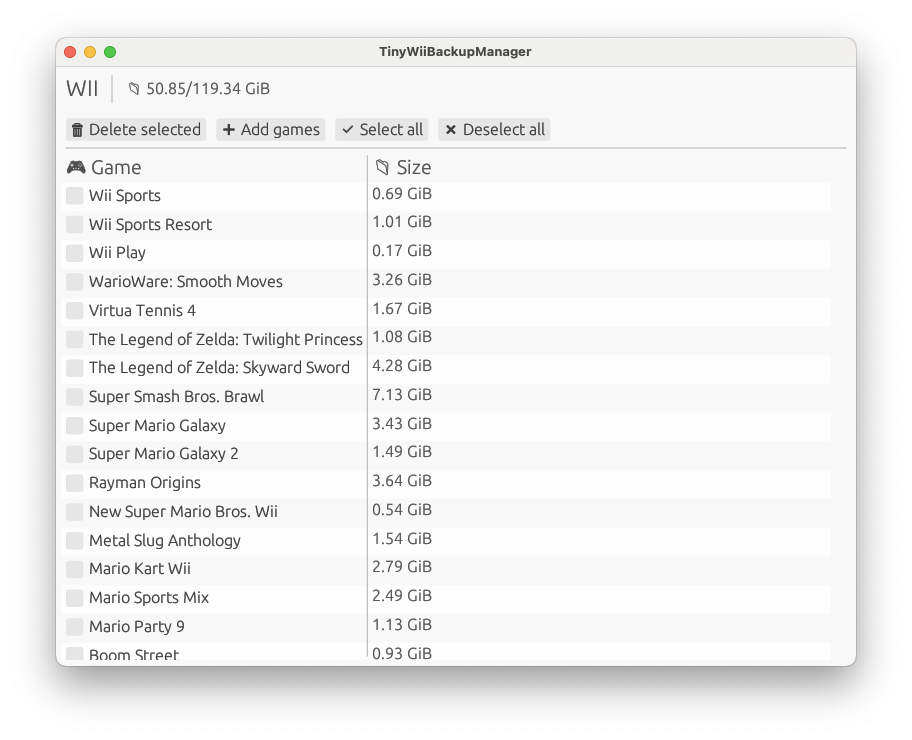
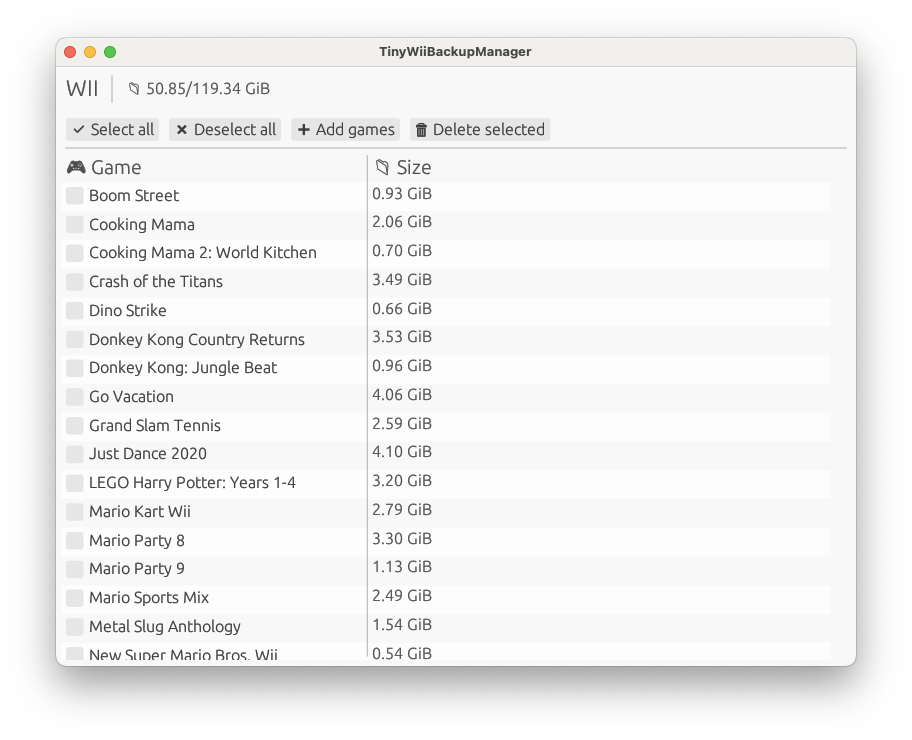
feat: Add games

diff --git a/src/pages/games.rs b/src/pages/games.rs
@@ -4,10 +4,34 @@
 use eframe::egui::{self, FontId, RichText};
 use egui_modal::{Icon, Modal};
 use poll_promise::Promise;
+use rfd::FileDialog;
+use std::thread;
 
 use crate::app::App;
 
 pub fn view(ctx: &egui::Context, app: &mut App) {
+    if let Some((i, total)) = *app.adding_games_progress.lock().unwrap() {
+        egui::CentralPanel::default().show(ctx, |ui| {
+            egui::Area::new("adding_games_progress")
+                .anchor(egui::Align2::CENTER_CENTER, egui::Vec2::ZERO)
+                .show(ctx, |ui| {
+                    ui.heading("Adding games");
+
+                    ui.add_space(10.0);
+                    ui.spinner();
+                    ui.add_space(10.0);
+
+                    ui.label(&format!("{}/{}", i, total));
+                });
+        });
+
+        if app.games.is_some() {
+            app.games = None;
+        }
+
+        return;
+    }
+
     let drive = app.current_drive.clone().unwrap();
 
     let drive_cloned = drive.clone();
@@ -61,12 +85,6 @@ pub fn view(ctx: &egui::Context, app: &mut App) {
                 });
 
                 ui.horizontal(|ui| {
-                    if ui.button("🗑 Delete selected").clicked() {
-                        delete_games_dialog.open();
-                    }
-
-                    if ui.button("➕ Add games").clicked() {}
-
                     if ui.button("✅ Select all").clicked() {
                         for game in games.iter_mut() {
                             game.checked = true;
@@ -77,6 +95,33 @@ pub fn view(ctx: &egui::Context, app: &mut App) {
                         for game in games.iter_mut() {
                             game.checked = false;
                         }
+                    }
+
+                    if ui.button("➕ Add games").clicked() {
+                        let files = FileDialog::new()
+                            .add_filter("WII Game", &["iso", "wbfs"])
+                            .pick_files();
+
+                        if let Some(files) = files {
+                            let adding_games_progress = app.adding_games_progress.clone();
+                            let drive_cloned = drive.clone();
+
+                            thread::spawn(move || {
+                                *adding_games_progress.lock().unwrap() =
+                                    Some((0usize, files.len()));
+
+                                for (i, file) in files.iter().enumerate() {
+                                    drive_cloned.add_game(file).unwrap();
+                                    adding_games_progress.lock().unwrap().unwrap().0 = i + 1;
+                                }
+
+                                *adding_games_progress.lock().unwrap() = None;
+                            });
+                        }
+                    }
+
+                    if ui.button("🗑 Delete selected").clicked() {
+                        delete_games_dialog.open();
                     }
                 });
 

diff --git a/src/app.rs b/src/app.rs
@@ -1,20 +1,21 @@
 // SPDX-FileCopyrightText: 2023 Manuel Quarneti <manuelquarneti@protonmail.com>
 // SPDX-License-Identifier: GPL-2.0-only
 
+use anyhow::Result;
 use eframe::egui;
 use poll_promise::Promise;
-use anyhow::Result;
+use std::sync::{Arc, Mutex};
 
-use crate::pages::{Page, self};
+use crate::pages::{self, Page};
 use crate::types::drive::Drive;
 use crate::types::game::Game;
-
 
 pub struct App {
     pub page: Page,
     pub drives: Option<Promise<Vec<Drive>>>,
     pub current_drive: Option<Drive>,
     pub games: Option<Promise<Result<Vec<Game>>>>,
+    pub adding_games_progress: Arc<Mutex<Option<(usize, usize)>>>,
 }
 
 impl Default for App {
@@ -24,6 +25,7 @@ impl Default for App {
             drives: None,
             current_drive: None,
             games: None,
+            adding_games_progress: Arc::new(Mutex::new(None)),
         }
     }
 }
@@ -33,6 +35,6 @@ impl eframe::App for App {
         match self.page {
             Page::Drives => pages::drives::view(ctx, self),
             Page::Games => pages::games::view(ctx, self),
-        } 
+        }
     }
 }

diff --git a/src/types/drive.rs b/src/types/drive.rs
@@ -94,7 +94,11 @@ impl Drive {
 
                 Some(dir)
             })
-            .collect();
+            .collect::<Vec<_>>();
+
+        // sort games by title
+        let mut games = games;
+        games.sort_by(|a, b| a.display_title.cmp(&b.display_title));
 
         Ok(games)
     }
